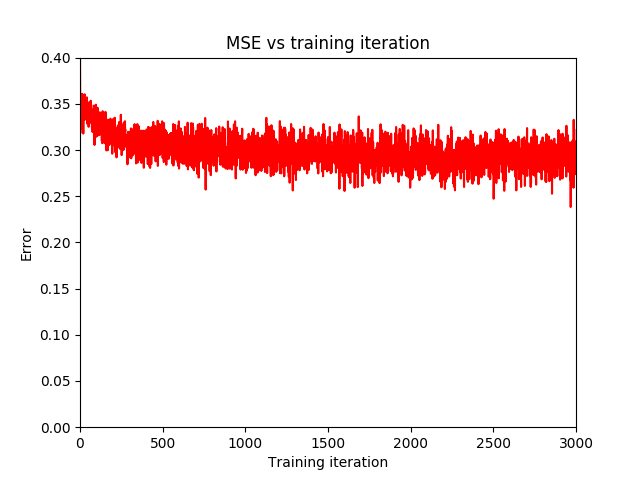
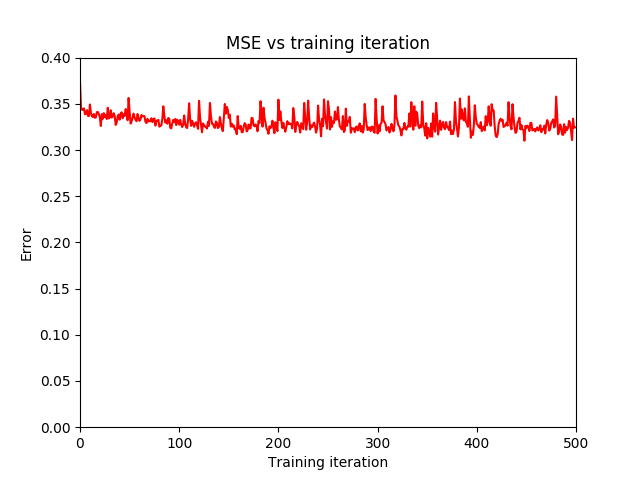
WineQuality debugging finalized for now, moving on to using Yuhao's network

diff --git a/Mark_Work/LayerAllocation/WineQuality/WineQuality_Control_Net.py b/Mark_Work/LayerAllocation/WineQuality/WineQuality_Control_Net.py
@@ -8,6 +8,7 @@ Code Source:
 
 https://github.com/rianrajagede/iris-python/blob/master/Python/iris_plain_mlp.py
 """
+
 """
 SECTION 1 : Load and setup data for training
 """
@@ -18,6 +19,7 @@ import math
 import numpy as np
 import matplotlib.pyplot as plt
 from sklearn import preprocessing
+from sklearn.decomposition import PCA 
 import sys
 
 random.seed(123)
@@ -53,6 +55,8 @@ scaler = preprocessing.StandardScaler()
 #train_X = scaler.fit_transform(train_X)
 test_X = scaler.fit_transform(test_X)
 #train_X = train_X.tolist()
+pca = PCA(n_components=8)
+test_X = pca.fit_transform(test_X)
 test_X = test_X.tolist()
 
 
@@ -115,8 +119,8 @@ def sigmoid(A, deriv=False):
 trial_num = sys.argv[1]   # "Test"
 alfa = float(sys.argv[2]) # 0.005
 epoch = int(sys.argv[3])  # 40
-neuron = [11, int(sys.argv[4]), int(sys.argv[5]), 10]  #[11, 10, 10, 10]  # number of neuron each layer
-batch_size = int(sys.argv[6])
+neuron = [8, int(sys.argv[4]), int(sys.argv[5]), int(sys.argv[6]), 10]   # number of neuron each layer
+batch_size = int(sys.argv[7])
 write_out_name = str(trial_num) + ".txt"
 
 f = open(write_out_name, "w+")
@@ -131,9 +135,13 @@ f.write("###### Begin Training Output ###### \n")
 weight = [[0 for j in range(neuron[1])] for i in range(neuron[0])]
 weight_2 = [[0 for j in range(neuron[2])] for i in range(neuron[1])]
 weight_3 = [[0 for j in range(neuron[3])] for i in range(neuron[2])]
+weight_3 = [[0 for j in range(neuron[3])] for i in range(neuron[2])]
+weight_4 = [[0 for j in range(neuron[4])] for i in range(neuron[3])]
+
 bias = [0 for i in range(neuron[1])]
 bias_2 = [0 for i in range(neuron[2])]
 bias_3 = [0 for i in range(neuron[3])]
+bias_4 = [0 for i in range(neuron[4])]
 
 # Initiate weight with random between -1.0 ... 1.0
 for i in range(neuron[0]):
@@ -154,6 +162,9 @@ for i in range(neuron[2]):
         weight_3[i][j] = 2 * random.random() - 1
         #weight_3[i][j] = random.gauss(0, 1)
 #print(["weight_3", weight_3])
+for i in range(neuron[3]):
+    for j in range(neuron[4]):
+        weight_4[i][j] = 2 * random.random() - 1
 
 cost_for_graph = []
 for e in range(epoch):
@@ -165,13 +176,14 @@ for e in range(epoch):
     train_y = [data[11] for data in datatrain[:batch_size]]
     train_X = np.array(train_X)
     train_X = scaler.fit_transform(train_X)
+    train_X = pca.fit_transform(train_X)
     train_X = train_X.tolist()
- #  print(["train_X", train_X])
+    # print(["train_X", train_X])
     cost_total = 0
 
     for idx, x in enumerate(train_X):  # Update for each data; SGD
-        print(["x", x])
-	result = 0
+        #print(["x", x])
+        result = 0
         #for i in range(len(x)):
             #result += x[i]*weight[0][i]
 
@@ -192,33 +204,43 @@ for e in range(epoch):
         h_3 = vec_mat_bias(X_2, weight_3, bias_3)
         # print(["h_3", h_3])
         X_3 = sigmoid(h_3)
+        h_4 = vec_mat_bias(X_3, weight_4, bias_4)
+        X_4 = sigmoid(h_4)
         # print(["X_3", X_3])
-        print(["y", train_y[idx]])
+        # print(["y", train_y[idx]])
         
         # Convert to One-hot target
-        target = [0, 0, 0, 0, 0, 
+        target = [0, 0, 0, 0, 0,
                   0, 0, 0, 0, 0]
         target[int(train_y[idx])] = 1
 
         # Cost function, Square Root Eror
         eror = 0
         for i in range(10):
-            eror += 0.5 * (target[i] - X_3[i]) ** 2
+            eror += 0.5 * (target[i] - X_4[i]) ** 2
         cost_total += eror
 
         # Backward propagation
-        # Update weight_2 and bias_3 (layer 3)
+        # Update weight_4 and bias_4 (layer 4)
         
-        delta_3 = []
+        delta_4 = []
+        for j in range(neuron[4]):
+            delta_4.append(-1 * (target[j] - X_4[j]) * X_4[j] * (1 - X_4[j]))
+        for i in range(neuron[3]):
+            for j in range(neuron[4]):
+                weight_4[i][j] -= alfa * (delta_4[j] * X_3[i])
+                bias_4[j] -= alfa * delta_4[j]    
+        #print(["weight_3", weight_3]) 
+	# Update weight_3 and bias_3
+        delta_3 = mat_vec(weight_4, delta_4)
         for j in range(neuron[3]):
-            delta_3.append(-1 * (target[j] - X_3[j]) * X_3[j] * (1 - X_3[j]))        
-            
+            delta_3[j] = delta_3[j] * (X_3[j] * (1 - X_3[j]))
+
         for i in range(neuron[2]):
             for j in range(neuron[3]):
                 weight_3[i][j] -= alfa * (delta_3[j] * X_2[i])
-                bias_3[j] -= alfa * delta_3[j]    
-        #print(["weight_3", weight_3]) 
-        
+                bias_3[j] -= alfa * delta_3[j]
+
         # Update weight_2 and bias_2 (layer 2)
         delta_2 = mat_vec(weight_3, delta_3)
         for j in range(neuron[2]):
